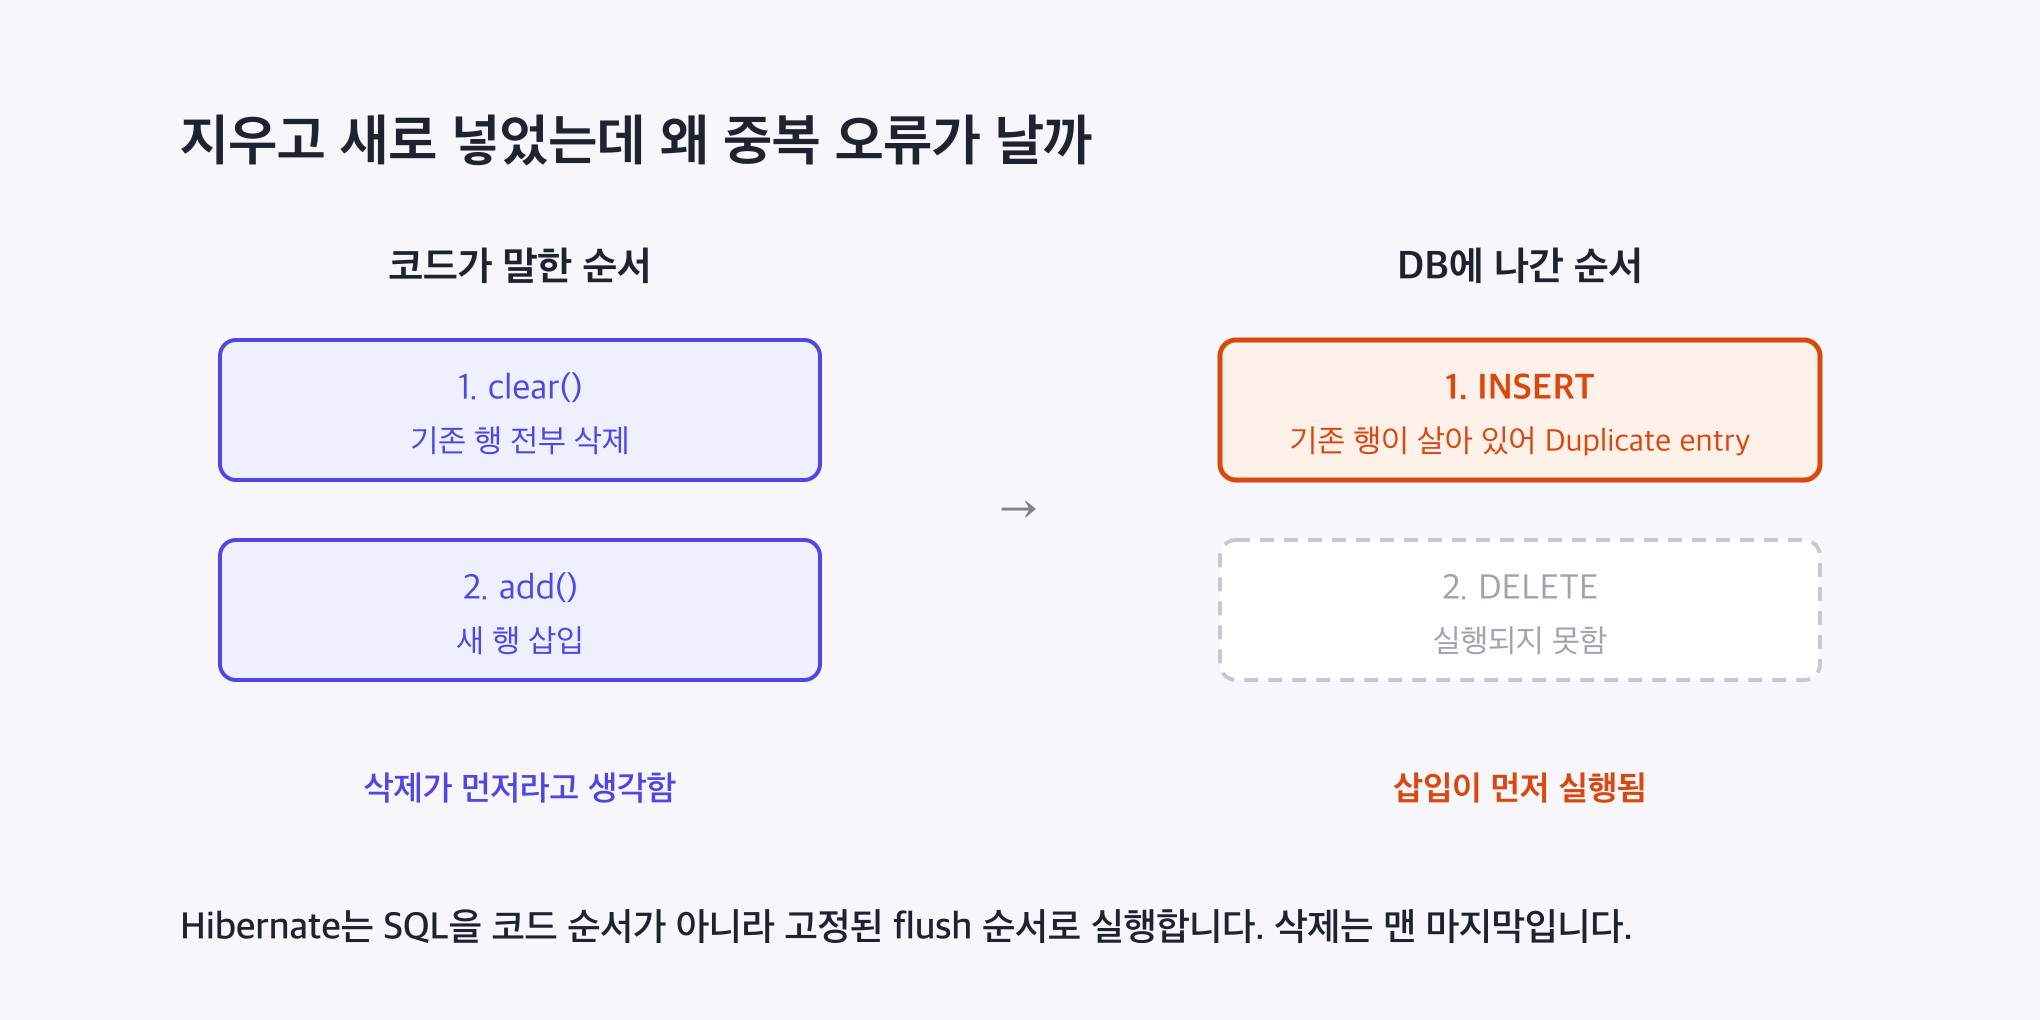
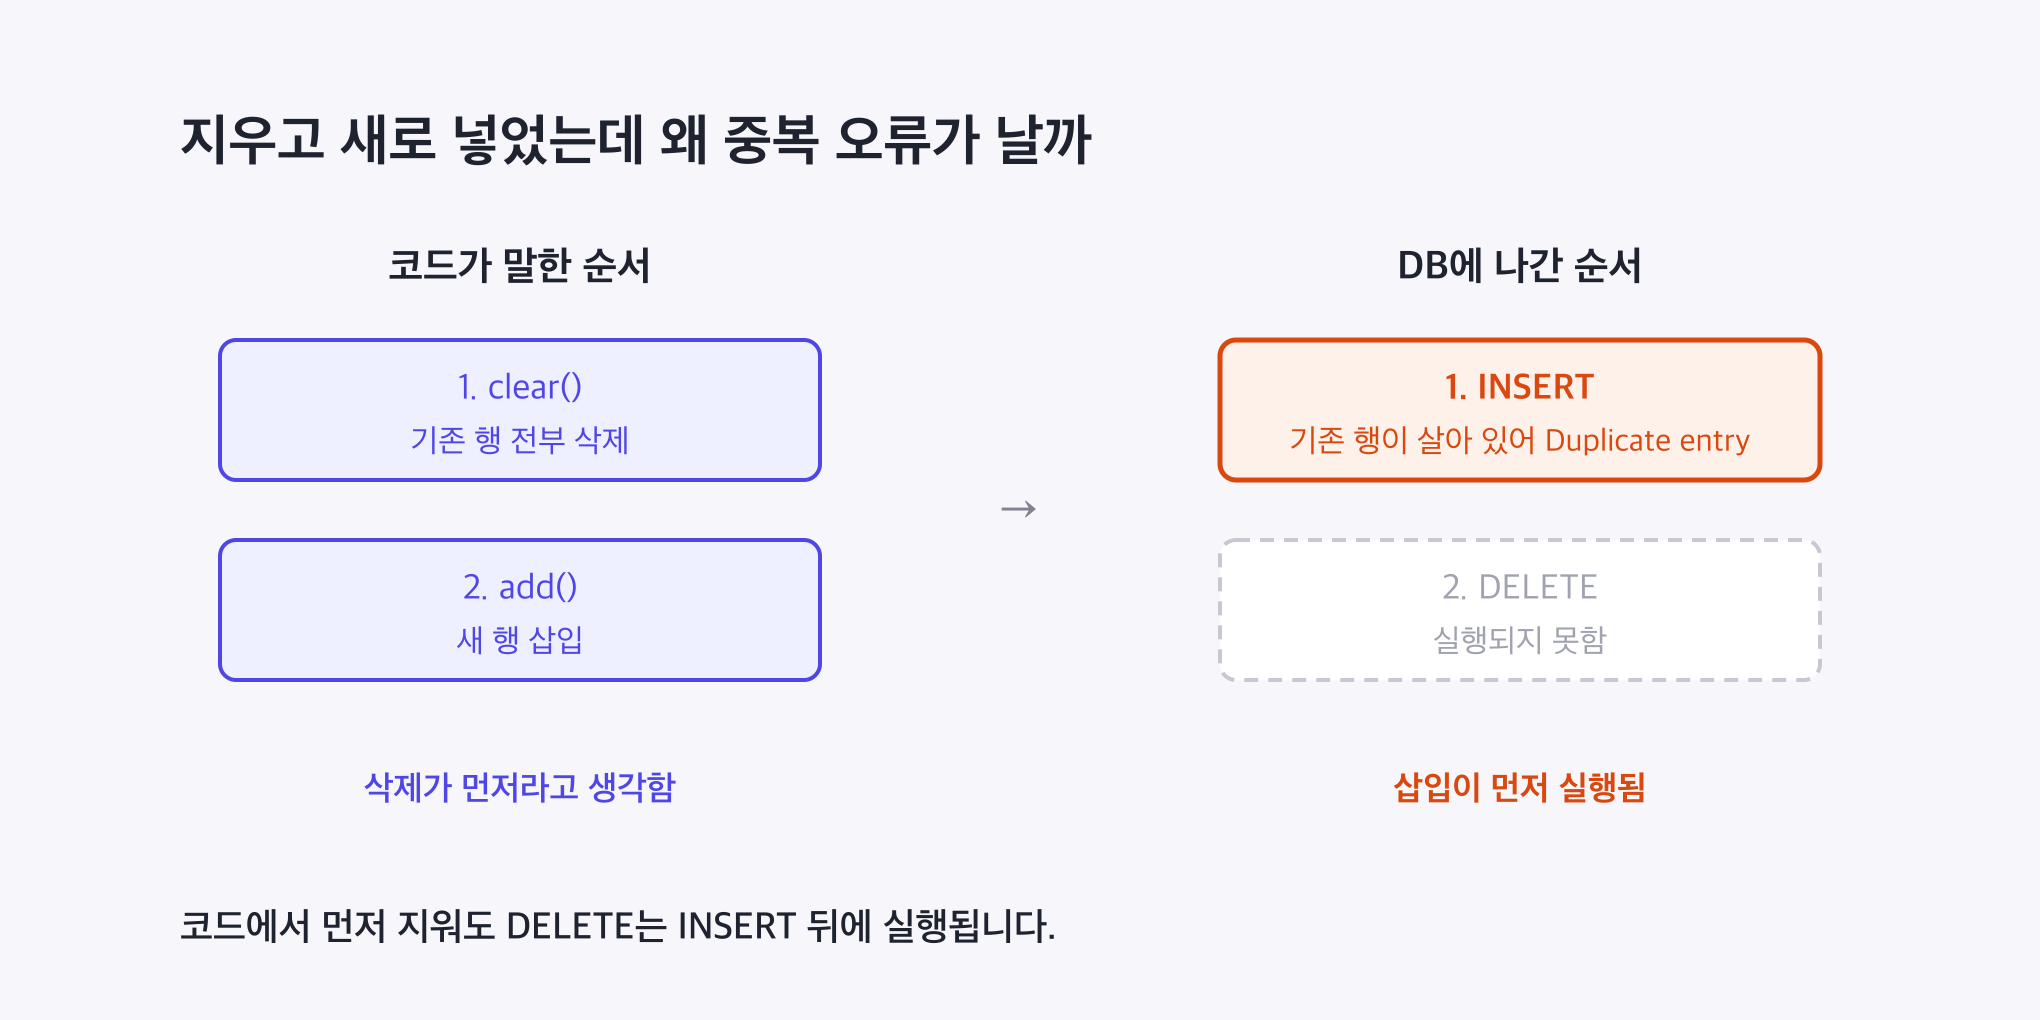
orphanRemoval 글: 변환 주체 설명과 스냅샷 도식 추가
- 소스 인용을 본문에서 부록으로 이동, 본문은 변환 주체(세션)와
  판단 근거(영속성 컨텍스트 스냅샷) 설명으로 대체
- 스냅샷 비교 도식(jpa-persistence-context-snapshot.svg) 추가
- 히어로 문구를 결론 위주로 교체
- pubDate Jul 19, 어제 날짜 유지

Changed region(s): [[0.0926, 0.8814, 0.8029, 0.9422]]

diff --git a/src/content/blog/jpa-orphan-removal-unique-key.md b/src/content/blog/jpa-orphan-removal-unique-key.md
@@ -95,56 +95,19 @@ flush 시점에는 삽입 예약 두 건과 삭제 예약 두 건이 ActionQueue
 
 지우고 넣는 코드가 실제로는 넣으려다 기존 행에 막혀 실패합니다. 최종 상태만 보면 `(14564, 10)`은 한 행만 남는 것이 맞습니다. 그러나 DB는 구문(statement) 하나가 끝날 때마다 제약을 검사하므로, INSERT가 실행되는 순간의 겹침을 허용하지 않습니다.
 
-## clear()의 삭제는 마지막 순서로 실행됨
+## 빠진 자식의 삭제는 1순위가 아니라 8순위로 예약됨
 
 그런데 이상합니다. `replaceInterests()` 함수 내에서 `clear()`를 호출하면 엔티티의 관계는 사라질 텐데 `OrphanRemovalAction`이 먼저 실행되지 않는 걸까요?
 
-답은 실제 Hibernate 5.6 소스를 보면 나옵니다. 두 액션은 Hibernate가 상황을 보고 고르는 것이 아니라, **어느 메서드를 거쳐 삭제가 예약됐는지**로 정해집니다.
+`clear()`라는 호출이 그대로 SQL로 번역되는 것이 아닙니다. 번역하는 주체는 flush를 수행하는 세션이고, 세션이 보는 것은 호출 기록이 아니라 영속성 컨텍스트의 상태입니다.
 
-- 세션의 `delete()`를 거치면 8순위 `EntityDeleteAction`
-- 세션의 `removeOrphanBeforeUpdates()`를 거치면 1순위 `OrphanRemovalAction`
+영속성 컨텍스트는 컬렉션을 로드할 때의 원소 목록을 스냅샷으로 갖고 있습니다. flush 때 세션은 스냅샷과 현재 컬렉션을 비교해서 빠진 원소를 구합니다. `clear()`를 한 번 불렀는지 `remove()`를 여러 번 불렀는지는 남아 있지 않고, 결과만 비교됩니다.
 
-갈림길은 삭제 이벤트를 처리하는 `DefaultDeleteEventListener`의 `if`와 `else` 한 쌍입니다.
+![영속성 컨텍스트의 스냅샷과 현재 컬렉션을 비교하는 도식. 왼쪽 스냅샷에는 PK가 있는 영속 엔티티 id=1 (14564, 10)과 id=2 (14564, 20)이 있고, 오른쪽 현재 컬렉션에는 PK가 없는 새 객체 (14564, 10)과 (14564, 30)이 있음. 비교 결과 왼쪽 둘은 8순위 EntityDeleteAction으로, 오른쪽 둘은 2순위 EntityInsertAction으로 예약되어 값이 같은 (14564, 10)도 삭제 1건과 삽입 1건으로 갈림](../../assets/jpa-persistence-context-snapshot.svg)
 
-```java
-// DefaultDeleteEventListener.java:286~313 (hibernate-core 5.6.15.Final)
+그렇게 구한 원소마다 세션의 `delete()`가 호출됩니다. `em.remove()`를 직접 부른 것과 같은 일반 삭제 이벤트이고, 여기서 예약되는 작업이 8순위 `EntityDeleteAction`입니다.
 
-286  if ( isOrphanRemovalBeforeUpdates ) {      // 참일 때만 1순위 액션
-289      session.getActionQueue().addAction(
-290              new OrphanRemovalAction( ... ) // 290~298행. 생성자 인자는 인용에서 생략
-299      );
-300  }
-301  else {                                     // 그 밖의 모든 삭제는 8순위 액션
-303      session.getActionQueue().addAction(
-304              new EntityDeleteAction( ... )  // 304~312행. 생성자 인자는 인용에서 생략
-312      );
-313  }
-```
-
-`isOrphanRemovalBeforeUpdates`가 참이 되는 것은 `removeOrphanBeforeUpdates()`를 거쳐 들어온 삭제뿐입니다. 세션의 `delete()`로 들어온 삭제는 `else`로 갑니다. 소스 전체에서 두 액션을 만드는 곳은 이 두 줄뿐입니다.
-
-그러면 컬렉션에서 빠진 자식이 둘 중 어느 쪽으로 가는지 보면 됩니다. 그 처리를 맡은 `Cascade.deleteOrphans()`에는 `delete()` 호출 하나만 있습니다. 아래 코드의 `eventSource`는 세션을 가리킵니다. Hibernate가 세션을 이벤트 발생자로 다룰 때 쓰는 인터페이스이고, 실제 구현이 `SessionImpl`입니다.
-
-```java
-// Cascade.java:587~609 (hibernate-core 5.6.15.Final)
-
-587  /**
-588   * Delete any entities that were removed from the collection
-589   */
-590  private static void deleteOrphans(EventSource eventSource, String entityName, PersistentCollection pc) {
-591      ...   // 591~601행. 스냅샷과 현재 컬렉션을 비교해 orphans를 구하는 코드. 인용에서 생략
-603      for ( Object orphan : orphans ) {          // 컬렉션에서 빠진 자식들
-604          if ( orphan != null ) {
-605              LOG.tracev( "Deleting orphaned entity instance: {0}", entityName );
-606              eventSource.delete( entityName, orphan, false, new HashSet() );  // 일반 삭제 이벤트
-607          }
-608      }
-609  }
-```
-
-`removeOrphanBeforeUpdates()`를 호출하는 코드가 이 메서드에는 없습니다. 조건에 따라 갈라질 여지 없이 모든 자식이 `delete()`로 갑니다. `delete()`는 `em.remove()`를 직접 호출한 것과 같은 일반 삭제 이벤트이므로, 결과는 8순위 `EntityDeleteAction`입니다.
-
-`removeOrphanBeforeUpdates()`를 호출하는 코드는 일대일 연관을 처리하는 다른 메서드에만 있습니다. 그 메서드는 첫 줄에서 일대일 연관인지부터 확인하므로 컬렉션은 도달하지 않습니다. 소스 전체를 검색해도 1순위 액션을 만드는 경로는 그 하나뿐입니다. 검색 결과는 부록에 정리했습니다.
+1순위 `OrphanRemovalAction`은 세션의 다른 메서드인 `removeOrphanBeforeUpdates()`를 거쳐야만 만들어집니다. 그 메서드를 호출하는 코드는 일대일 연관 처리부에만 있고, 컬렉션은 거기 도달하지 않습니다. 소스에서 확인한 내용은 부록에 정리했습니다.
 
 그래서 `clear()`로 빠진 자식은 1순위가 아니라 8순위로 예약됩니다. 5순위 `CollectionRemoveAction`도 아닙니다. 그 액션은 컬렉션 자체를 비우는 작업인데, 이 연관은 `mappedBy`로 걸린 역방향이라 컬렉션이 자체 SQL을 내지 않습니다. 행의 삭제는 전부 자식 엔티티 단위 작업으로 나갑니다.
 
@@ -229,9 +192,49 @@ StaleStateException: actual row count: 0; expected: 1
 - 이 순서는 일반적인 연관관계 변경에서는 유리하다. 같은 테이블 안에서 삭제될 행과 삽입될 행이 유니크키 값을 공유할 때만 문제가 된다
 - 중복이 허용되지 않는 관계라면 유니크키를 유지하고, 유지할 행은 건드리지 않은 채 변경된 것만 지우고 추가한다. 유니크키 제거는 동시 쓰기까지 막을 다른 방법이 있을 때만 검토한다
 
-## 부록: 1순위 경로가 일대일 연관 전용이라는 근거
+## 부록: 삭제가 8순위로 예약된다는 근거
 
-본문에서 본 `isOrphanRemovalBeforeUpdates`가 참이 되는 경로는 하나뿐입니다. `SessionImpl.removeOrphanBeforeUpdates()`가 `DeleteEvent`를 만들면서 해당 인자에 `true`를 넘기는 경우입니다.
+컬렉션에서 빠진 자식을 처리하는 `Cascade.deleteOrphans()`에는 `delete()` 호출 하나만 있습니다. 아래 코드의 `eventSource`는 세션을 가리킵니다. Hibernate가 세션을 이벤트 발생자로 다룰 때 쓰는 인터페이스이고, 실제 구현이 `SessionImpl`입니다.
+
+```java
+// Cascade.java:587~609 (hibernate-core 5.6.15.Final)
+
+587  /**
+588   * Delete any entities that were removed from the collection
+589   */
+590  private static void deleteOrphans(EventSource eventSource, String entityName, PersistentCollection pc) {
+591      ...   // 591~601행. 스냅샷과 현재 컬렉션을 비교해 orphans를 구하는 코드. 인용에서 생략
+603      for ( Object orphan : orphans ) {          // 컬렉션에서 빠진 자식들
+604          if ( orphan != null ) {
+605              LOG.tracev( "Deleting orphaned entity instance: {0}", entityName );
+606              eventSource.delete( entityName, orphan, false, new HashSet() );  // 일반 삭제 이벤트
+607          }
+608      }
+609  }
+```
+
+`removeOrphanBeforeUpdates()`를 호출하는 코드가 이 메서드에는 없습니다. 조건에 따라 갈라질 여지 없이 모든 자식이 `delete()`로 갑니다.
+
+두 액션의 갈림길은 삭제 이벤트를 처리하는 `DefaultDeleteEventListener`의 `if`와 `else` 한 쌍입니다.
+
+```java
+// DefaultDeleteEventListener.java:286~313 (hibernate-core 5.6.15.Final)
+
+286  if ( isOrphanRemovalBeforeUpdates ) {      // 참일 때만 1순위 액션
+289      session.getActionQueue().addAction(
+290              new OrphanRemovalAction( ... ) // 290~298행. 생성자 인자는 인용에서 생략
+299      );
+300  }
+301  else {                                     // 그 밖의 모든 삭제는 8순위 액션
+303      session.getActionQueue().addAction(
+304              new EntityDeleteAction( ... )  // 304~312행. 생성자 인자는 인용에서 생략
+312      );
+313  }
+```
+
+세션의 `delete()`로 들어온 삭제는 이 플래그가 거짓이라 `else`로 갑니다. 소스 전체에서 두 액션을 만드는 곳은 이 두 줄뿐입니다.
+
+`isOrphanRemovalBeforeUpdates`가 참이 되는 경로는 하나뿐입니다. `SessionImpl.removeOrphanBeforeUpdates()`가 `DeleteEvent`를 만들면서 해당 인자에 `true`를 넘기는 경우입니다.
 
 ```java
 // SessionImpl.java:906~924 (hibernate-core 5.6.15.Final)
